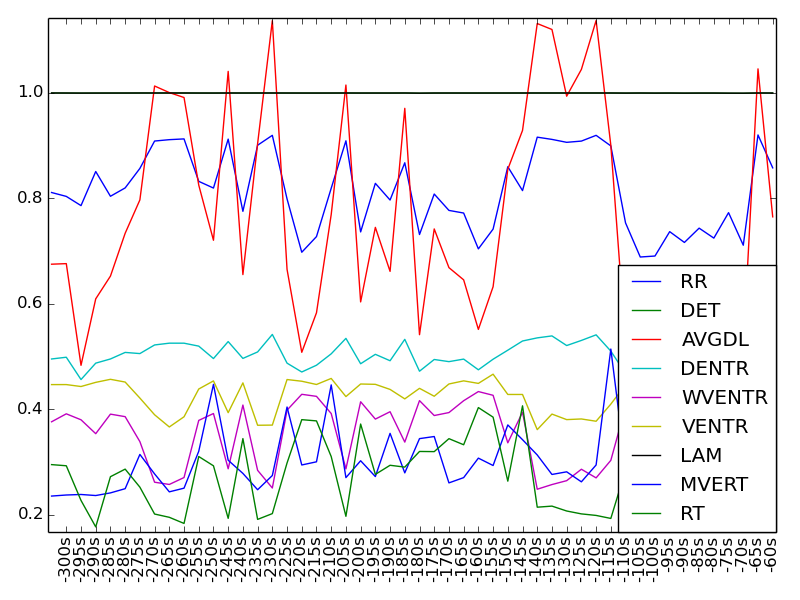
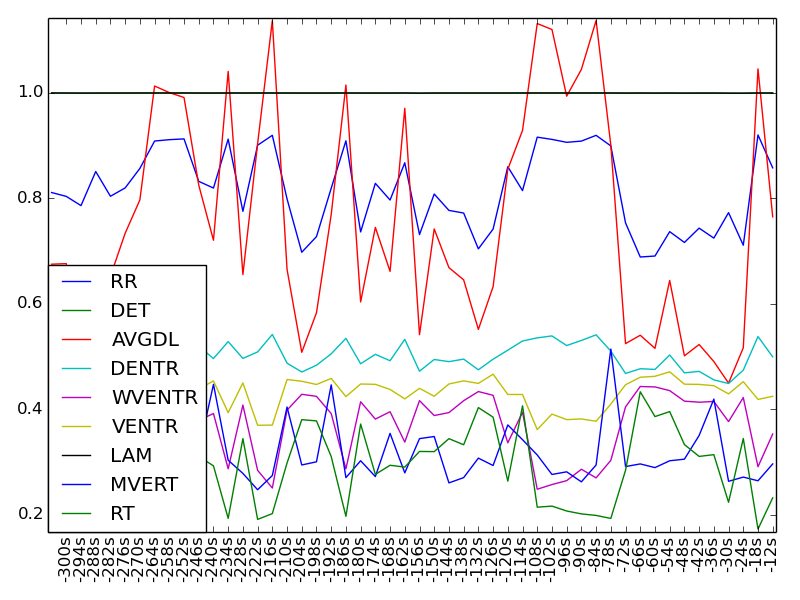
yes

Changed region(s): [[0.0625, 0.42, 0.9688, 0.96], [0.8438, 0.84, 0.875, 0.87]]

diff --git a/data_extraction/make_rqa_plots.py b/data_extraction/make_rqa_plots.py
@@ -7,7 +7,7 @@ file.close()
 
 
 
-labels = ['-%ds'%(i) for i in xrange(300,0,-5) ]
+labels = ['-%ds'%(i) for i in xrange(300,0,-6) ]
 
 rr = [i[0] for i in pay]
 det = [i[1] for i in pay]
@@ -31,6 +31,6 @@ plt.plot(ventr,label="VENTR")
 plt.plot(lam,label="LAM")
 plt.plot(mvert,label="MVERT")
 plt.plot(rt,label="RT")
-plt.legend(bbox_to_anchor=(0,0,1.,1),loc=4, borderaxespad=0.)
+plt.legend(bbox_to_anchor=(0,0,1.,1),loc=3, borderaxespad=0.)
 plt.tight_layout()
 plt.savefig('rqa_vt.png')
